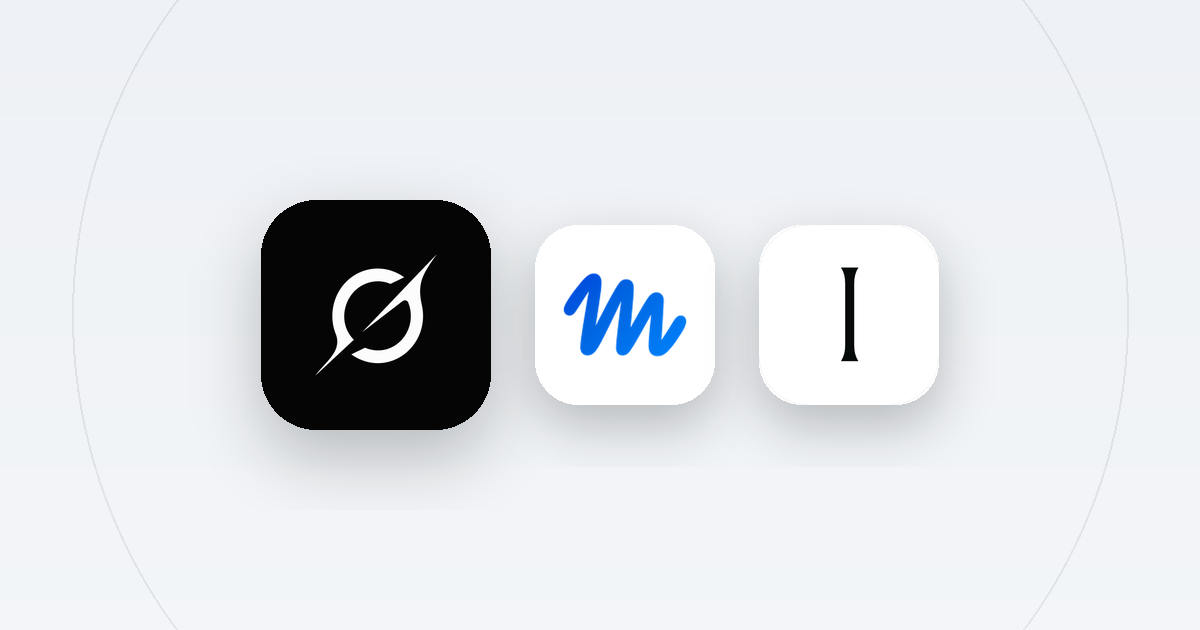
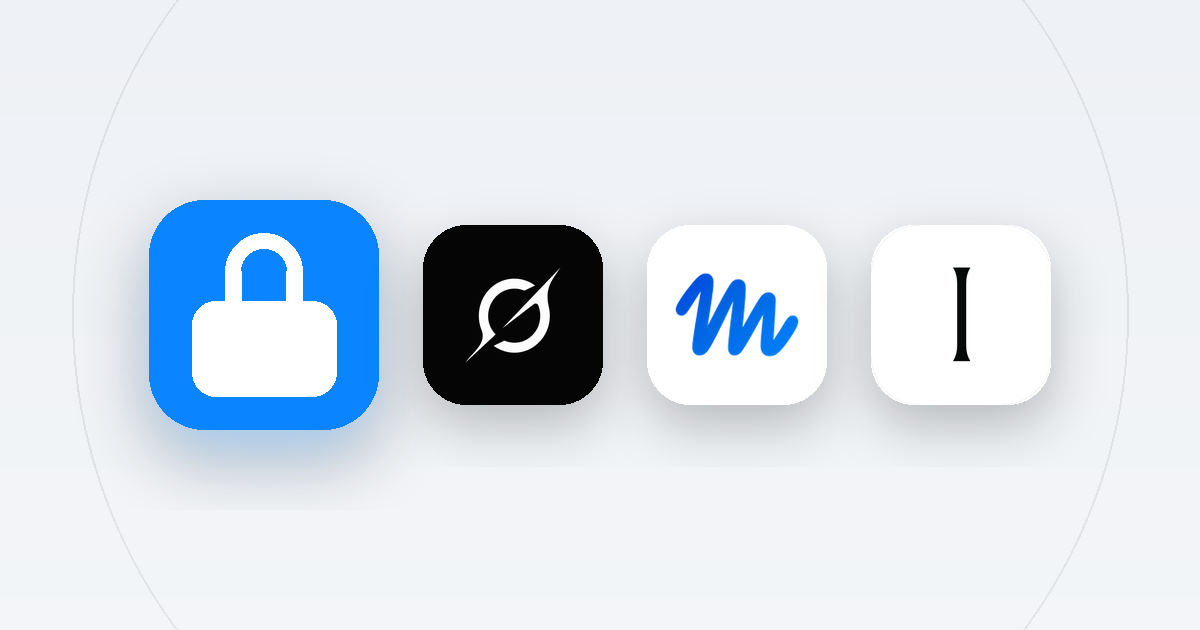
Article hero and share card can lead with a lock tile
hero_mark: lock in an article's frontmatter puts a blue padlock tile in
front of the assistant logos on both the page hero and the share card,
so a privacy piece reads differently from a performance piece at a
glance. Enabled on the privacy comparison.

Changed region(s): [[0.0925, 0.3016, 0.8942, 0.754]]

diff --git a/src/components/ArticleHero.tsx b/src/components/ArticleHero.tsx
@@ -35,8 +35,16 @@ export function ArticleHero({ article, report, agents, bySlug = {}, size = 'full
         <span className="art-hero-ring" />
         <span className="art-hero-ring two" />
         <div className="art-hero-icons">
+          {article.heroMark === 'lock' && (
+            <span className="art-hero-icon art-hero-mark lead">
+              <svg viewBox="0 0 24 24" fill="none" stroke="currentColor" strokeWidth="2" strokeLinecap="round" strokeLinejoin="round">
+                <rect x="4.5" y="10.5" width="15" height="10" rx="2.5" fill="currentColor" stroke="none" />
+                <path d="M8 10.5V7.5a4 4 0 0 1 8 0v3" />
+              </svg>
+            </span>
+          )}
           {shown.map((a, i) => (
-            <AgentIcon key={a.slug} name={a.name} icon={a.icon} size={big} className={`art-hero-icon ${i === 0 ? 'lead' : ''}`} />
+            <AgentIcon key={a.slug} name={a.name} icon={a.icon} size={big} className={`art-hero-icon ${i === 0 && !article.heroMark ? 'lead' : ''}`} />
           ))}
         </div>
       </div>

diff --git a/src/app/globals.css b/src/app/globals.css
@@ -4001,6 +4001,8 @@ footer .links { display: flex; flex-wrap: wrap; justify-content: center; gap: 6p
 .art-hero-icons .row-icon { border-radius: 24%; box-shadow: 0 18px 40px rgba(0, 0, 0, 0.14), 0 2px 6px rgba(0, 0, 0, 0.06); background: #fff; }
 .art-hero-full .art-hero-icon { width: 112px; height: 112px; }
 .art-hero-full .art-hero-icon.lead { width: 144px; height: 144px; }
+.art-hero-mark { display: inline-flex; align-items: center; justify-content: center; border-radius: 24%; background: var(--blue); color: #fff; box-shadow: 0 18px 40px rgba(10, 132, 255, 0.28), 0 2px 6px rgba(0, 0, 0, 0.06); }
+.art-hero-mark svg { width: 56%; height: 56%; }
 .art-hero-img { display: block; width: 100%; height: auto; border-radius: 18px; }
 .art-hero figcaption { margin: 10px 4px 0; font-size: 13px; color: var(--sec); }
 .art-hero-thumb { margin: 0; }

diff --git a/src/lib/articles.ts b/src/lib/articles.ts
@@ -13,6 +13,8 @@ export interface Article {
   update: string | null;
   agents: string[];
   hero: string | null;
+  /** Optional symbol drawn with the assistants on a composed hero, e.g. `lock` for a privacy piece. */
+  heroMark: string | null;
   heroCaption: string;
   takeaways: string[];
   preview: boolean;
@@ -42,6 +44,7 @@ function parse(slug: string, raw: string): Article {
     update: str(meta.update) || null,
     agents: list(meta.agents),
     hero: str(meta.hero) || null,
+    heroMark: str(meta.hero_mark) || null,
     heroCaption: str(meta.hero_caption),
     takeaways: str(meta.takeaways).split('|').map(s => s.trim()).filter(Boolean),
     preview: isTrue(meta.preview),

diff --git a/scripts/og-article.py b/scripts/og-article.py
@@ -34,6 +34,23 @@ def tile(slug, size):
     canvas.alpha_composite(shadow); canvas.alpha_composite(face, (pad, pad))
     return canvas
 
+def lock_tile(size):
+    """A blue tile with a white padlock, the mark for a privacy piece; same shadow as a logo tile."""
+    face = Image.new('RGBA', (size, size), (10, 132, 255, 255))
+    d = ImageDraw.Draw(face); u = size / 24
+    d.rounded_rectangle((4.5 * u, 10.5 * u, 19.5 * u, 20.5 * u), radius=2.5 * u, fill=(255, 255, 255, 255))
+    w = int(1.7 * u)
+    d.arc((8 * u, 3.5 * u, 16 * u, 11.5 * u), start=180, end=360, fill=(255, 255, 255, 255), width=w)
+    d.rectangle((8 * u, 7.5 * u, 8 * u + w, 10.5 * u), fill=(255, 255, 255, 255)); d.rectangle((16 * u - w, 7.5 * u, 16 * u, 10.5 * u), fill=(255, 255, 255, 255))
+    mask = Image.new('L', (size, size), 0); ImageDraw.Draw(mask).rounded_rectangle((0, 0, size - 1, size - 1), radius=int(size * 0.24), fill=255)
+    face.putalpha(mask)
+    pad = int(size * 0.35); canvas = Image.new('RGBA', (size + pad * 2, size + pad * 2), (0, 0, 0, 0))
+    shadow = Image.new('RGBA', canvas.size, (0, 0, 0, 0))
+    ImageDraw.Draw(shadow).rounded_rectangle((pad, pad + int(size * 0.12), pad + size, pad + size + int(size * 0.12)), radius=int(size * 0.24), fill=(10, 132, 255, 90))
+    shadow = shadow.filter(ImageFilter.GaussianBlur(int(size * 0.14)))
+    canvas.alpha_composite(shadow); canvas.alpha_composite(face, (pad, pad))
+    return canvas
+
 def cover_fit(img):
     r = max(W / img.width, H / img.height); img = img.resize((int(img.width * r), int(img.height * r)), Image.LANCZOS)
     x, y = (img.width - W) // 2, (img.height - H) // 2
@@ -58,12 +75,13 @@ def render(md_path):
         rd.ellipse((cx - rw, cy - rw, cx + rw, cy + rw), outline=(0, 0, 0, alpha), width=2)
     im.alpha_composite(rings)
     agents = [a.strip() for a in meta.get('agents', '').split(',') if a.strip()]
+    mark = meta.get('hero_mark', '')
     if agents:
         lead, small = 230, 180; gap = 44
-        sizes = [lead] + [small] * (len(agents) - 1)
-        total = sum(sizes) + gap * (len(agents) - 1); x = cx - total // 2
-        for s, size in zip(agents, sizes):
-            t = tile(s, size); pad = (t.width - size) // 2
+        items = ([('__lock__', lead)] if mark == 'lock' else []) + [(s, small if mark else (lead if i == 0 else small)) for i, s in enumerate(agents)]
+        total = sum(sz for _, sz in items) + gap * (len(items) - 1); x = cx - total // 2
+        for s, size in items:
+            t = lock_tile(size) if s == '__lock__' else tile(s, size); pad = (t.width - size) // 2
             im.alpha_composite(t, (x - pad, cy - size // 2 - pad)); x += size + gap
     im.convert('RGB').save(out, optimize=True); print(out)
 

diff --git a/data/articles/comparing-privacy-policies-of-ai-assistants.md b/data/articles/comparing-privacy-policies-of-ai-assistants.md
@@ -7,6 +7,7 @@ kind: Analysis
 report:
 update:
 agents: grok-bot, muse, instinct
+hero_mark: lock
 hero_caption: Grok Bot, Muse and Instinct, whose documents were compared side by side. Illustration by Assistant Benchmark.
 takeaways: Instinct and Muse allow training on eligible interactions by default; Grok Bot says it does not while Privacy Mode is on | Grok Bot's documents are the most specific on security and vendors, Muse's on what the agent can and cannot see, Instinct's the thinnest for the data it holds | Deleting a message or Bot can leave other stored data; full resets and account deletion have separate rules
 ---

diff --git a/docs/WRITING.md b/docs/WRITING.md
@@ -75,6 +75,7 @@ report: shopping                 # optional; the report this piece belongs to
 update: muse-adds-paypal-and-shopify-checkout   # optional; the update it grew out of
 agents: muse, instinct, grok-bot # shows the piece on those head to heads
 hero: /articles/muse-card.jpg    # optional; without it a cover is composed from `agents`
+hero_mark: lock                  # optional; leads the composed cover with a symbol tile (only `lock` so far)
 hero_caption: Caption and credit under the hero.
 takeaways: First point | Second point | Third point   # "The short version" box
 ---
